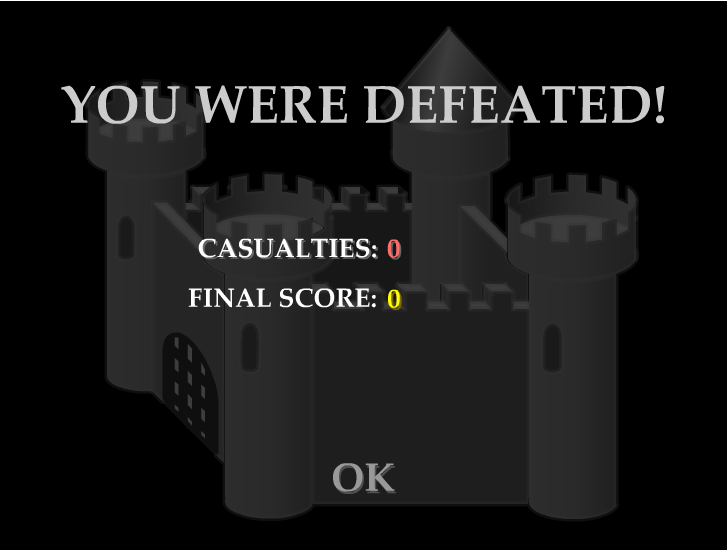
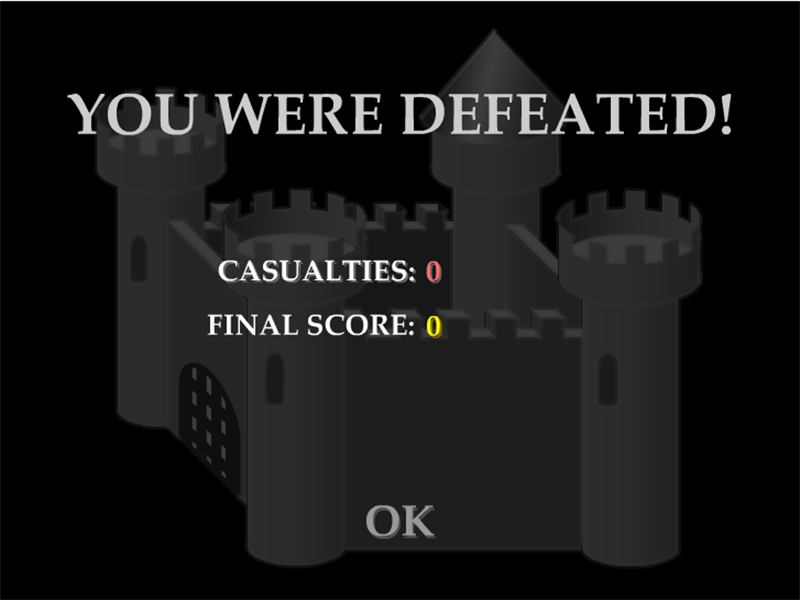
11/22(화)
성 HP 다 닳으면 패배 -> 시작화면 이동
패배화면 단축키 '2'

diff --git a/DefendCastle/main_state.py b/DefendCastle/main_state.py
@@ -3,10 +3,12 @@ import enemy
 import random
 import game_framework
 import clear_state
+import lose_state
 import math
 
 EnemyCount, background, castle, CloudTeam, EnemyTeam, TargetEnemyIndex, isMouseDown = None, None, None, None, None, -1, False
 playTime = 0.0
+mx, my = 0, 0
 class Castle:
     def __init__(self):
         self.castle = load_image('castle.png')
@@ -43,8 +45,10 @@ def handle_events():
             game_framework.quit()
         elif(event.type == SDL_KEYDOWN and event.key == SDLK_ESCAPE):
             game_framework.quit()
-        elif (event.type == SDL_KEYDOWN and event.key == SDLK_1):
+        elif (event.type == SDL_KEYDOWN and event.key == SDLK_1):   # 치트키
             game_framework.change_state(clear_state)
+        elif (event.type == SDL_KEYDOWN and event.key == SDLK_2):   # 치트키
+            game_framework.change_state(lose_state)
         elif(event.type == SDL_MOUSEMOTION):
             mx = event.x
             my = 599 - event.y
@@ -65,7 +69,6 @@ def handle_events():
                         EnemyTeam[i].state = 2
                         EnemyTeam[i].f_speed = 0
                         break
-
         if(event.type == SDL_MOUSEBUTTONUP or (isMouseDown == True and mx == 0 or mx == 799 or my == 0 or my == 599)):
             isMouseDown = False
             if(TargetEnemyIndex != -1):
@@ -76,7 +79,7 @@ def handle_events():
 
 
 def enter():
-    global EnemyCount, background, castle, CloudTeam, EnemyTeam, castle
+    global EnemyCount, background, castle, CloudTeam, EnemyTeam, castle, playTime
     EnemyCount = random.randint(5,10)
 
     castle = Castle()
@@ -97,6 +100,8 @@ def enter():
 
         print(i, ";", EnemyTeam[i].x)
 
+    playTime = 0.0
+
 def update():
     global CloudTeam, EnemyTeam, castle, playTime
     for c in CloudTeam:
@@ -106,7 +111,11 @@ def update():
         if e.isHit:
             castle.castleHP -= 1
             e.isHit = False
-    print(game_framework.getStage())
+    if castle.castleHP == 0:
+        game_framework.change_state(lose_state)
+
+    #print(game_framework.getStage())
+    #print(playTime)
     if playTime >= 50.0:
         game_framework.upStage()
         game_framework.change_state(clear_state)

diff --git a/DefendCastle/lose_state.py b/DefendCastle/lose_state.py
@@ -1,13 +1,15 @@
 from pico2d import *
 import game_framework
+import start_menu
 import main_state
 
-name = 'Clear'
+name = 'Lose'
 image = None
+logo_time = 0.0
 
 def enter():
     global image
-    image = load_image('clear.png')
+    image = load_image('lose.png')
 
 def exit():
     global image
@@ -15,13 +17,12 @@ def exit():
     pass
 
 def update():
-    #print(game_framework.getStage())
     pass
 
 def draw():
     global image
     clear_canvas()
-    image.draw(400, 300, 800,600)
+    image.draw(400, 300)
     update_canvas()
     pass
 
@@ -45,6 +46,9 @@ def handle_events():
                 #game_framework.quit()
                 exit()
             elif (event.type == SDL_MOUSEBUTTONDOWN):
-                if(485 < event.x and event.x < 565 and 45 < 599 - event.y and 599 - event.y < 87):
-                    game_framework.change_state(main_state)
-                print(event.x, 599 - event.y)
+                if (event.x >= 365 and event.x <= 439 and 599 - event.y >= 59 and 599 - event.y <= 97):
+                    game_framework.change_state(start_menu)
+
+
+                #print(event.x)
+                #print(599 - event.y)
